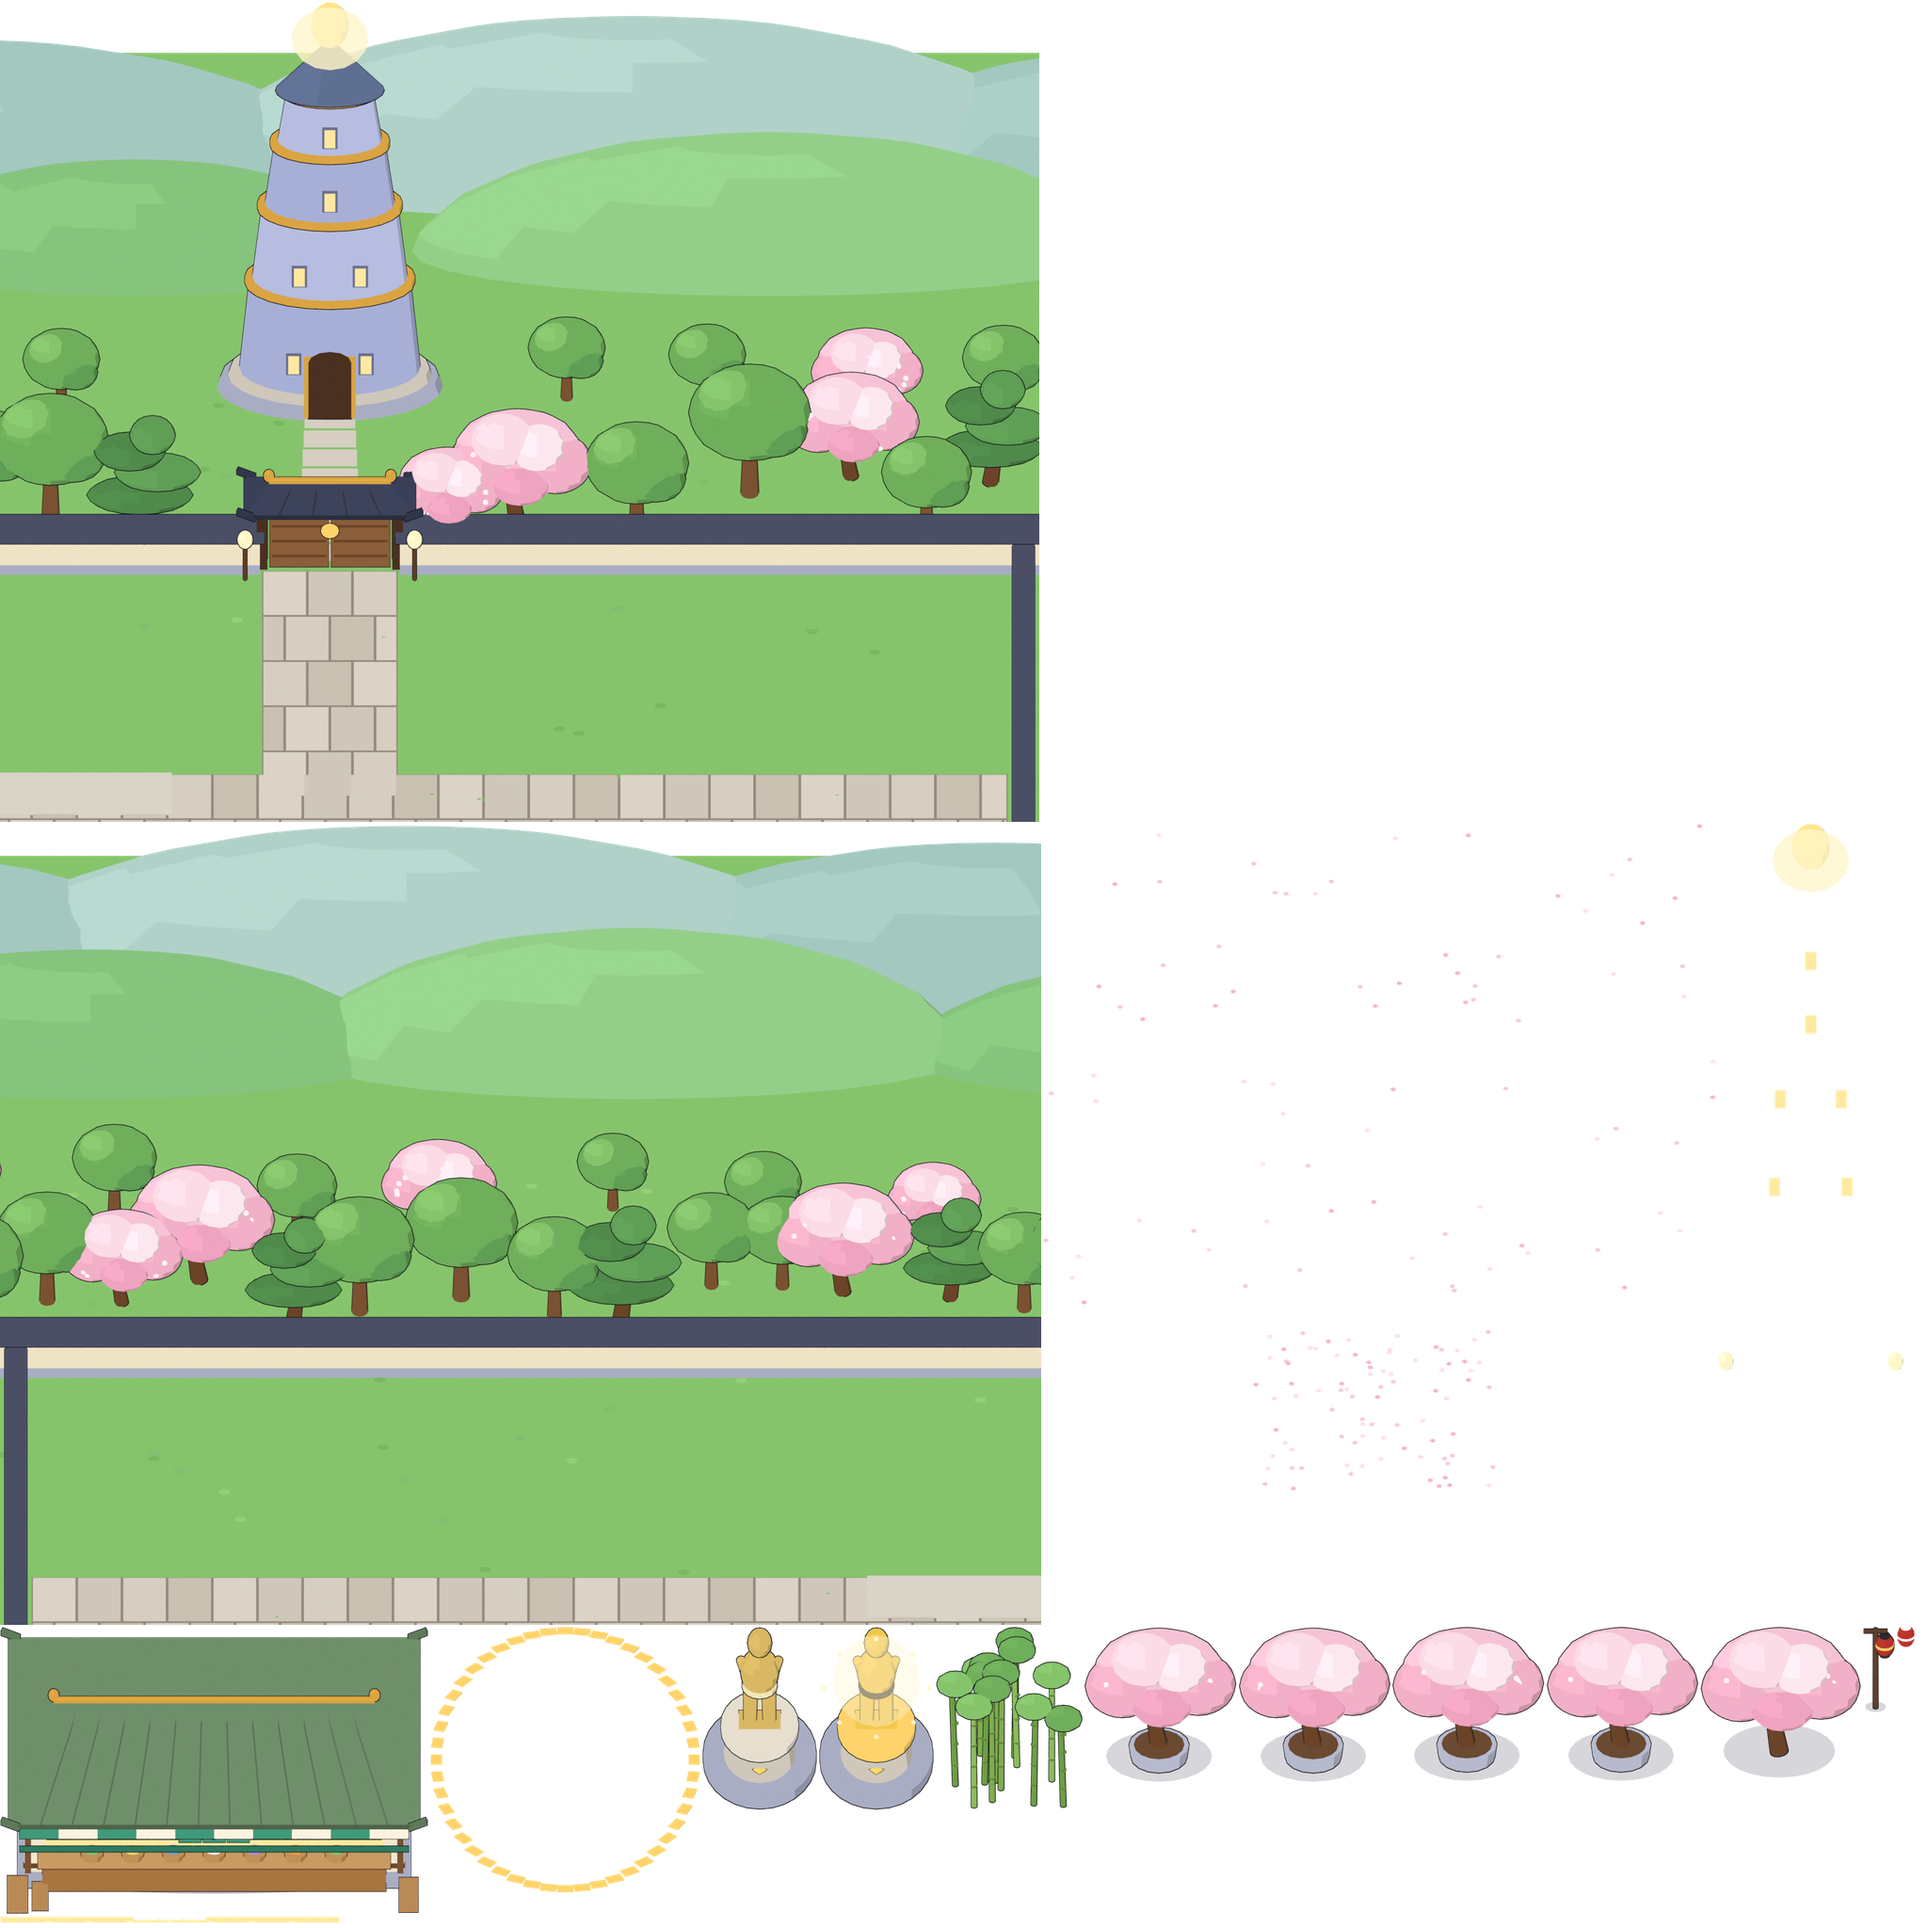
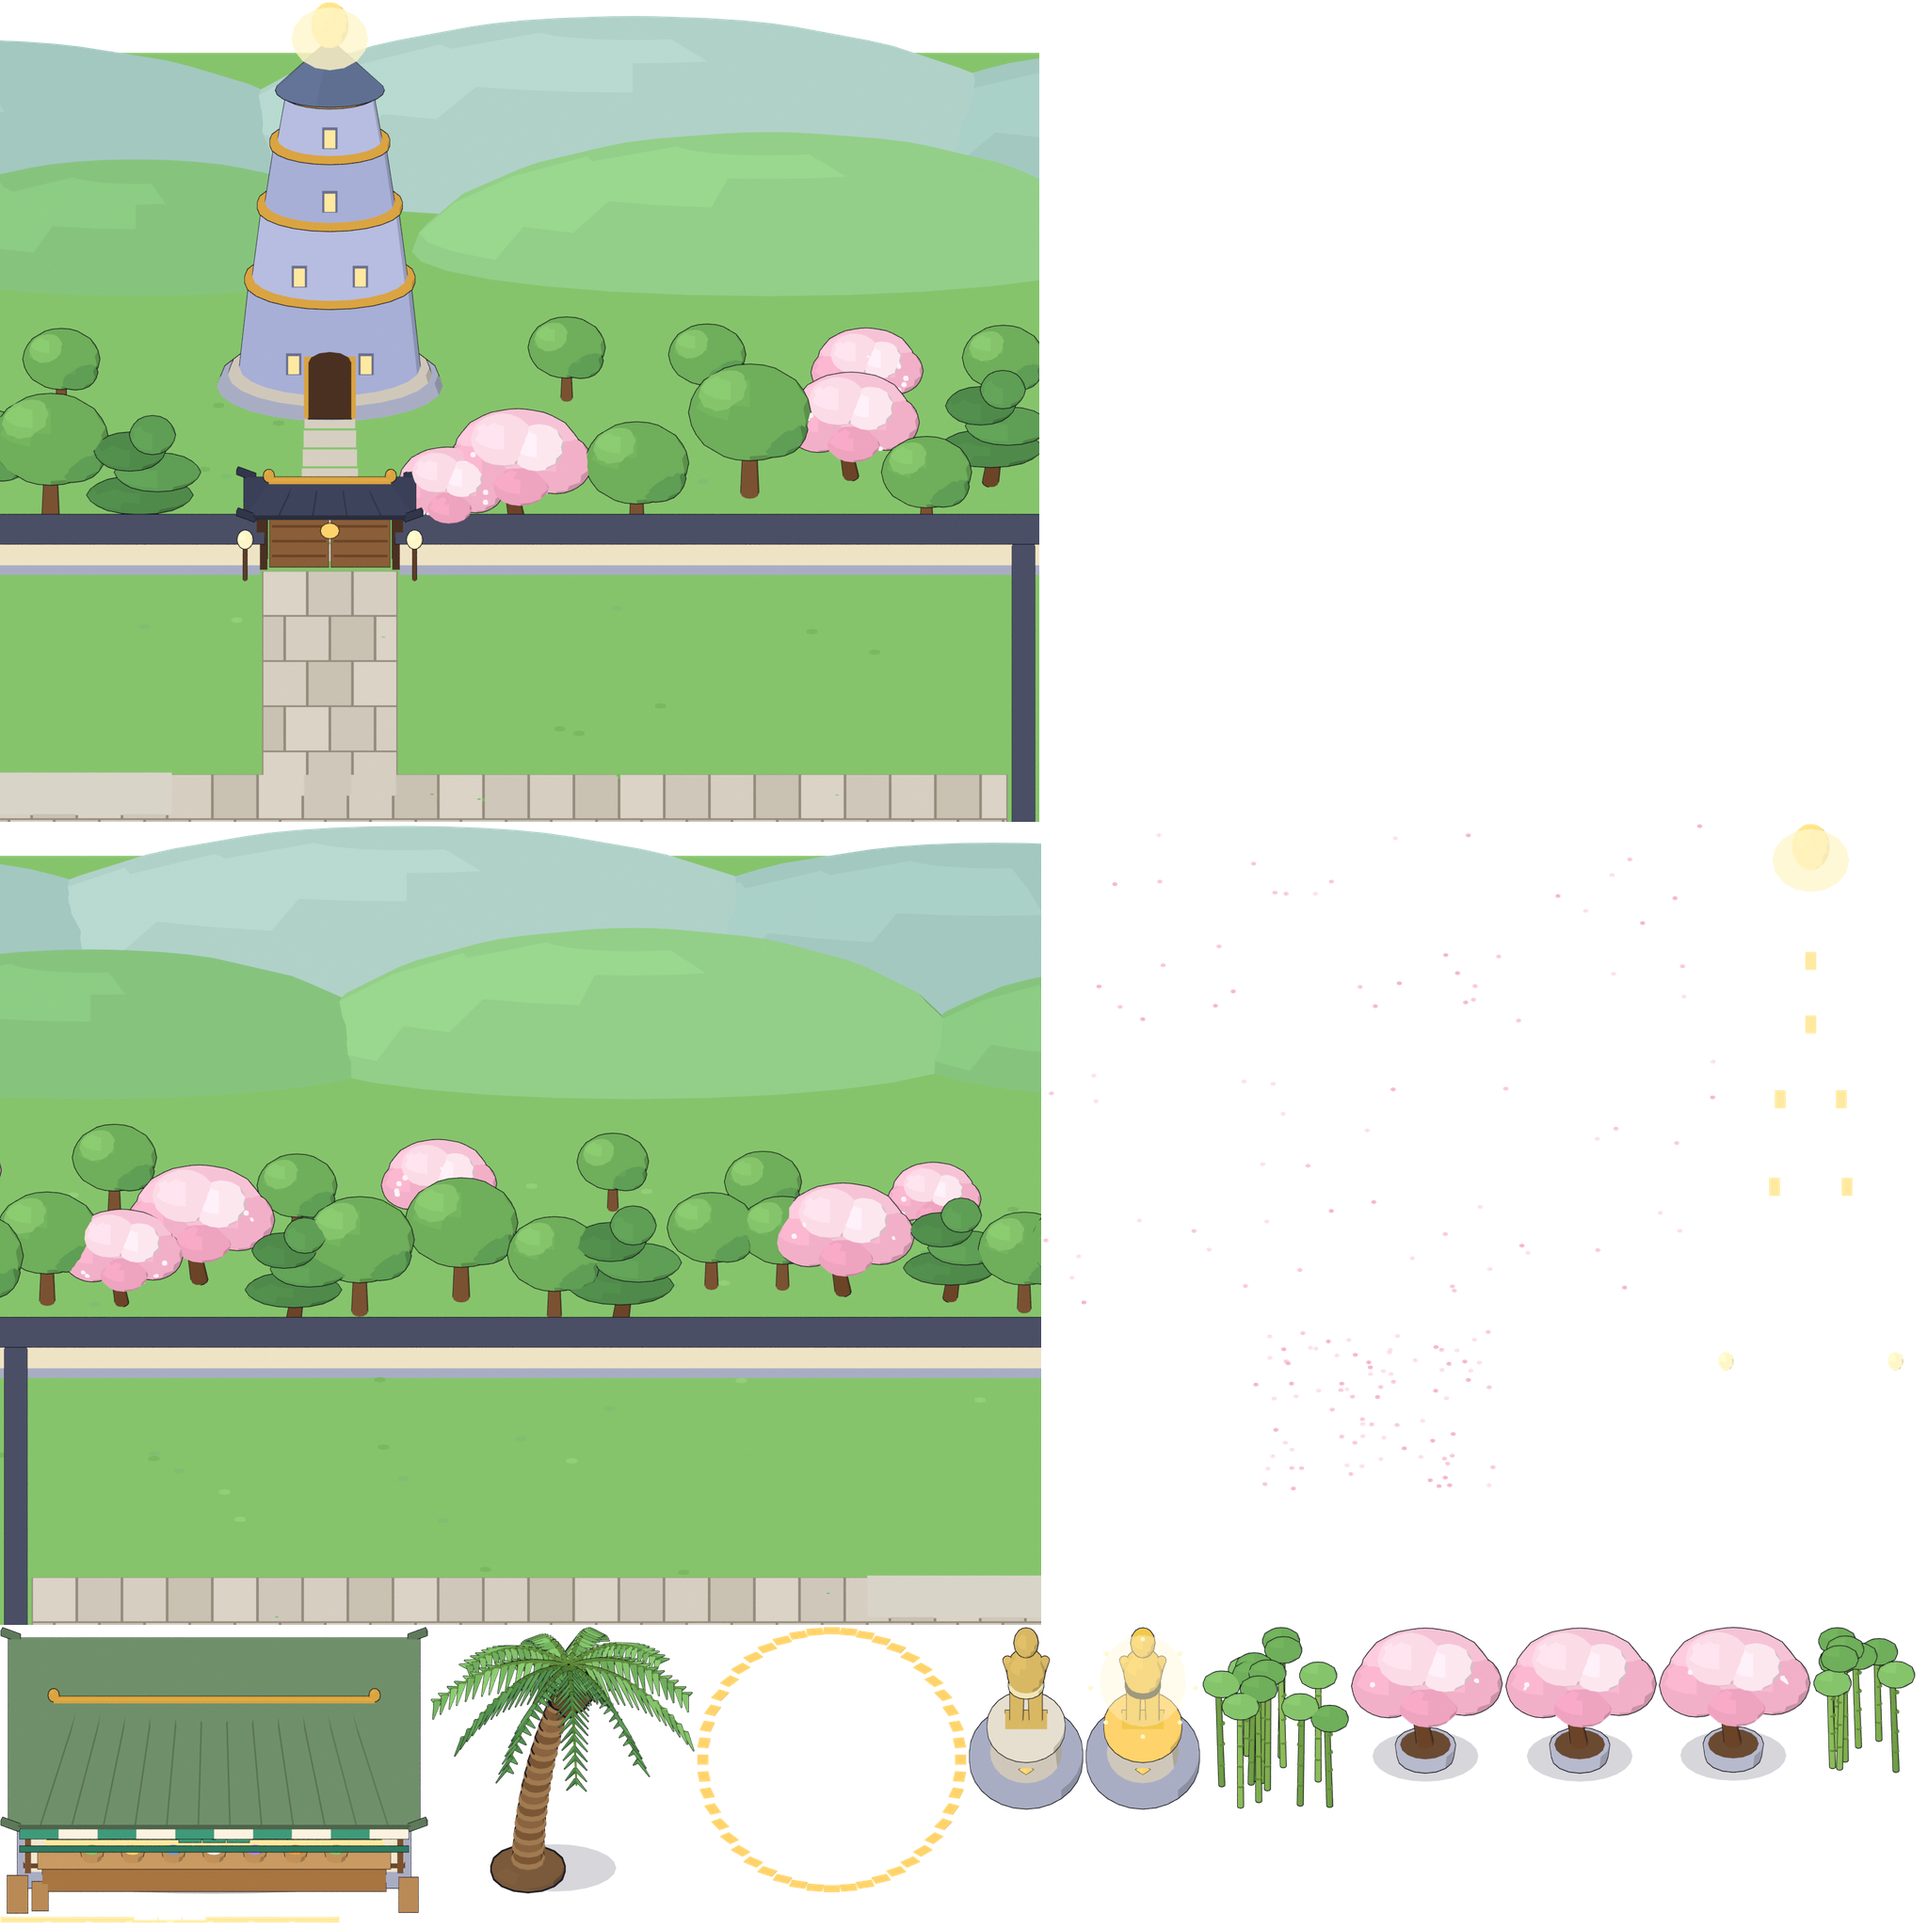
Entrance: a detailed palm tree, and no bush in the middle of the walkway

Changed region(s): [[0.2188, 0.8438, 1.0, 1.0], [0.4062, 0.9688, 0.4688, 1.0]]

diff --git a/apps/client/src/scenes/OutsideScene.ts b/apps/client/src/scenes/OutsideScene.ts
@@ -14,7 +14,15 @@ const BEHIND_BUILDING_ROW = 6;
  * old building layer and the old bench and chairs. Town tile (23, 9), the door front, is this room's (7, 6).
  */
 const FROM_TOWN = { dx: -16, dy: -3 };
-const TOWN_PIECES: Record<string, string[]> = { 'town-az': [], 'town-az-bench-a': ['outside-bench-a'], 'town-az-chairs': ['outside-chair-a', 'outside-chair-b'] };
+const TOWN_PIECES: Record<string, string[]> = {
+  'town-az': [],
+  'town-az-bench-a': ['outside-bench-a'],
+  'town-az-chairs': ['outside-chair-a', 'outside-chair-b'],
+  // Jay, Nov 19: a detailed palm in place of the old one (made with the town's pieces, shown only here).
+  'town-az-palm': ['outside-palm'],
+};
+/** Jay, Nov 19: the little bush in the middle of the walkway is gone. */
+const REMOVED = ['outside-shrub'];
 
 /**
  * The Action Zone dojo, outside (A4-DOJO-ii): the entrance in daylight. Drawn bottom to top as the
@@ -52,7 +60,7 @@ export class OutsideScene extends WalkScene {
 
     // The detailed building from the town, when its art is here (else the old picture stays).
     const town = staticSprites(this, TOWN_PACK) as Record<string, StaticSprite & { drawScale?: number }>;
-    const replaced = new Set<string>();
+    const replaced = new Set<string>(REMOVED);
     let newBuilding: Phaser.GameObjects.Image[] = [];
     for (const [id, olds] of Object.entries(TOWN_PIECES)) {
       const s = town[id];

diff --git a/apps/client/src/scenes/TownScene.ts b/apps/client/src/scenes/TownScene.ts
@@ -173,7 +173,7 @@ export class TownScene extends WalkScene {
     const flat: [number, Phaser.GameObjects.GameObject[]][] = [];
     const pools: Phaser.GameObjects.GameObject[] = [];
     for (const [id, s] of all) {
-      if (!s.anchorTile || !pieceShown({ stage: s.stage ?? 1, until: s.until }, this.stage)) continue;
+      if (!s.anchorTile || s.place === 'outside' || !pieceShown({ stage: s.stage ?? 1, until: s.until }, this.stage)) continue;
       const lit = s.place === 'lit' || s.place === 'lit-ground';
       if (lit && !this.night) continue;
       const images = addStatic(this, TOWN_PACK, id, s.anchorTile[0] * TILE, s.anchorTile[1] * TILE);

diff --git a/incoming-art/claude-town/source/build_town.py b/incoming-art/claude-town/source/build_town.py
@@ -836,6 +836,52 @@ for k in range(3):
     add("wall", box(G((c0 + c1) / 2, 29.65, 0.4), (c1 - c0 + 0.02, D(0.3), 0.8)), "#efe3c6", True, 1.2)
     add("cap", box(G((c0 + c1) / 2, 29.65, 0.85), (c1 - c0 + 0.1, D(0.5), 0.12)), "#4a4f66", True, 1.2)
 
+# ---------------------------------------------------------------- the palm beside the real dojo (entrance scene only)
+# Jay, Nov 19: the palm at the Action Zone entrance should be detailed like the new building. It is rendered with the
+# town's Action Zone pieces (town tile (28.4, 9.4) = the entrance's (12.4, 6.4), where the old palm stood) but it is
+# not part of the town itself: place "outside" keeps it out of the town's walk file and drawing.
+PX, PY = 28.4, 9.4
+piece("az-palm", (PX, PY), sort=PY, block=[])
+META["az-palm"]["place"] = "outside"
+shadow(PX + 0.3, PY, 0.9, 0.35)
+add("mound", ellipsoid(G(PX, PY, 0.0), (0.42, D(0.24), 0.1), segs=16, rings=5), "#7a5a3a")
+# a slightly bent trunk of stacked rings, wider at the foot
+segs_ = 16; H = 2.55; bend = 0.45; prev = None
+def trunk_pt(t): return (PX + bend * t * t, PY, H * t)
+for k in range(segs_):
+    t0, t1 = k / segs_, (k + 1) / segs_
+    x0, _, z0 = trunk_pt(t0); x1, _, z1 = trunk_pt(t1)
+    r0 = 0.17 - 0.06 * t0; r1 = 0.17 - 0.06 * t1
+    add(f"tr{k}", tube(G(x0, PY, z0), G(x1, PY, z1), r0, r1 * 0.92, segs=12), ("#8a6440", "#7a5634")[k % 2])
+    add(f"trr{k}", tube(G(x1, PY + 0.01, z1 - 0.03), G(x1, PY + 0.01, z1 + 0.01), r1 + 0.02, r1 + 0.02, segs=12), "#a07a50", False)
+cx_, _, cz_ = trunk_pt(1.0)
+# coconuts and the crown's base
+for k, (dx, dz) in enumerate(((-0.1, -0.12), (0.1, -0.14), (0.0, -0.22), (0.16, -0.05))):
+    add(f"nut{k}", ellipsoid(G(cx_ + dx, PY + 0.12, cz_ + dz), (0.1, 0.1, 0.11), segs=12, rings=8), ("#6b4a2a", "#7a5634")[k % 2])
+add("crown", ellipsoid(G(cx_, PY, cz_ + 0.05), (0.2, 0.2, 0.16), segs=12, rings=8), "#5f8a3a")
+# fronds: a drooping rib with leaflets down both sides, in three greens; the back ones darker
+FR = 11
+for f in range(FR):
+    a = 2 * math.pi * f / FR + 0.2
+    dx, dy = math.cos(a), math.sin(a) * 0.55          # the frond's direction on the ground (squashed toward the camera)
+    L = 1.35 + 0.15 * ((f * 7) % 3) / 2
+    back = dy < -0.2
+    col_rib = "#4f7a30" if back else "#5f8a3a"
+    cols = ("#4f8a4a", "#5f9e55") if back else ("#6fae5a", "#86c46c")
+    pts = []
+    for k in range(9):
+        t = k / 8
+        pts.append((cx_ + dx * L * t, PY - dy * L * t, cz_ + 0.18 + 0.45 * t - 1.05 * t * t))
+    for k in range(8):
+        (x0, y0, z0), (x1, y1, z1) = pts[k], pts[k + 1]
+        add(f"rib{f}_{k}", tube(G(x0, y0, z0), G(x1, y1, z1), 0.03 - 0.0025 * k, 0.027 - 0.0025 * k, segs=6), col_rib, k < 4, 0.8)
+        for side in (-1, 1):   # leaflets: long thin pointed blades, angled outward, forward and down, shorter toward the tip
+            for h in (0.3, 0.75):
+                ln = 0.42 * (1 - 0.55 * (k + h) / 8)
+                mx = x0 + (x1 - x0) * h; my = y0 + (y1 - y0) * h; mz = z0 + (z1 - z0) * h
+                tx = mx + side * dy * ln + dx * ln * 0.3; ty = my - side * dx * ln * 0.55 - dy * ln * 0.3; tz = mz - ln * 0.55
+                add(f"lf{f}_{k}{side}{h}", tube(G(mx, my, mz), G(tx, ty, tz), 0.045, 0.004, segs=5, sy=0.35), cols[(k + (side > 0)) % 2], True, 0.6)
+
 # ===================================================================================== the walk grid
 PATH = set(cells(29, 31, 5, 8))
 base = [["#" if ((r <= 8 and (c, r) not in PATH) or r >= 29 or c == 0 or c == COLS - 1 or (c, r) in GROUND_BLOCK) else "." for c in range(COLS)] for r in range(ROWS)]

diff --git a/incoming-art/claude-town/source/pack_town.py b/incoming-art/claude-town/source/pack_town.py
@@ -58,7 +58,7 @@ def glows_of(im, x0, y0, k):
     return out
 
 
-def add_piece(sid, f, k, anchor, extra, layer, stage, until, sort, lit=False):
+def add_piece(sid, f, k, anchor, extra, layer, stage, until, sort, lit=False, show=True):
     im = Image.open(f).convert("RGBA"); bb = im.getbbox()
     if not bb:
         print("empty render:", sid); return None
@@ -73,7 +73,7 @@ def add_piece(sid, f, k, anchor, extra, layer, stage, until, sort, lit=False):
     if lit: s["glows"] = glows_of(crop, bb[0], bb[1], k)
     sprites[sid] = s
     if k != 1: crop = crop.resize((round(crop.width / k), round(crop.height / k)), Image.LANCZOS); bb = (round(bb[0] / k), round(bb[1] / k))
-    placed.append((layer, sort or 0, crop, bb[0], bb[1], stage, until, lit, s.get("glows", [])))
+    if show: placed.append((layer, sort or 0, crop, bb[0], bb[1], stage, until, lit, s.get("glows", [])))
     return s
 
 
@@ -100,9 +100,9 @@ for p in meta["pieces"]:
         if not os.path.exists(f):
             if not lit: print("missing render:", pid)
             continue
-        place = ("lit" if lit else ("flat" if p["flat"] else "stand"))
+        place = ("lit" if lit else (p.get("place") or ("flat" if p["flat"] else "stand")))
         add_piece(f"town-{pid}" + ("-lit" if lit else ""), f, k, p["anchorTile"], {"place": place}, (1 if p["flat"] else 2), p["stage"], p["until"],
-                  p["sortRow"] + (0.001 if lit else 0), lit=lit)
+                  p["sortRow"] + (0.001 if lit else 0), lit=lit, show=p.get("place") != "outside")
 
 json.dump({"about": "The town (Claude Code, Nov 18-19 2026), made by incoming-art/claude-town/source/build_town.py and pack_town.py. "
                     "Rendered at %d px per tile; the picture starts %d rows above the town's row 0. Ground pieces are pinned at their "
@@ -116,7 +116,7 @@ if A.walk:
     w = json.load(open(A.walk)) if os.path.exists(A.walk) else {}
     w["tiles"] = meta["tiles"]
     w["pieces"] = [{k: v for k, v in (("id", "town-" + p["id"]), ("stage", p["stage"]), ("until", p["until"]), ("block", p["block"])) if v not in (None, [])}
-                   for p in meta["pieces"]]
+                   for p in meta["pieces"] if p.get("place") != "outside"]   # entrance-scene pieces are not part of the town
     json.dump(w, open(A.walk, "w", newline="\n"), indent=2)
     with open(A.walk, "a", newline="\n") as fh: fh.write("\n")
 

diff --git a/docs/decisions.md b/docs/decisions.md
@@ -2069,3 +2069,4 @@ Jay's answers to the Fable review's questions (Nov 14, board section 000) applie
 - **Night (Jay: "a night time mode that is supposed to feel very warm and welcoming").** From 7 pm to 6 am on the phone's clock (test link `?night=1` / `?night=0`, off in beta builds) the town turns a soft blue-violet (`NIGHT_TINT`), the hero and classmates a lighter one, and every lit thing stays warm and bright: windows and shoji, paper lanterns, the market counter, the lit stone lanterns (from belt 7), the gate lanterns, the Tower's windows and its light. Each light has a soft warm glow and, near the ground, a pool of light on the paving. Fireflies drift over the plaza, garden, yard, pond and street; stars twinkle in the sky. Reduced motion stops the fireflies and twinkling. The lights are a second Blender pass (only the lit parts, with the rest of each piece cut out), so it costs 0.4 MB, not a second copy of the town. Only the town has night so far; the Home Dojo and the Action Zone entrance are still day.
 - **No pagoda; a rock garden instead of the practice yard (Jay, Nov 19).** The stage-8 pagoda beyond the back wall is gone ("it will be confusing having 2 towers"); stage 8 keeps the taiko drum pavilion. The practice yard (wooden floor, blue mat, makiwara, banners, staff rack) is replaced by a rock garden ("enough wood colour and blue in the personal dojo"): raked pale gravel in a low stone curb, three moss-topped rock groups with raked ripples, a stepping-stone path, and a stone lantern (lit from belt 7). Growing pieces: a stone water basin with a bamboo spout (belt 3, replacing the extra makiwara and banners) and a red maple (belt 6). The gravel is walkable; the rocks, basin and maple are not.
 - **The entrance uses the new building (Jay, Nov 19: walking up to the door "reloads the old image").** The Action Zone entrance scene now draws the town's detailed building (town pack, at twice the detail, half size) instead of the bot's old building layer and its blank phone and address bars, plus the town's bench and the two straight red chairs instead of the old ones. Town tile (23, 9) maps to the entrance's door front (7, 6). The ground, flower beds, shrub, small bench, palm, trees and bin stay the bot's approved art; the walk grid is unchanged.
+- **Entrance: a detailed palm, no walkway bush (Jay, Nov 19).** The old palm is replaced by a new one made with the town's pieces (a ringed, gently bent trunk, coconuts, eleven drooping fronds with long pointed leaflets; twice the detail, drawn at half size); it is an entrance-only piece (`place: "outside"`), kept out of the town and its walk file. The little round bush in the middle of the walkway is no longer drawn.
